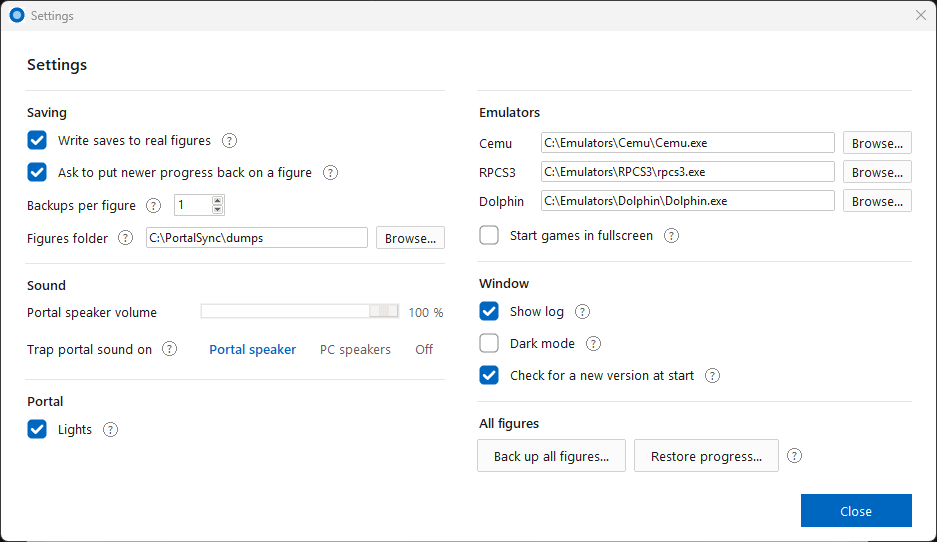
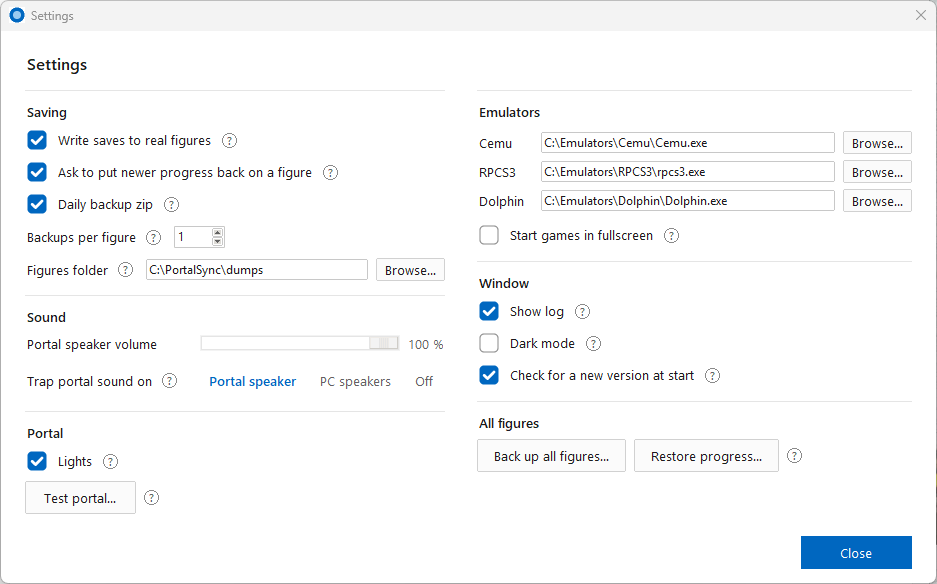
New screenshots for 1.5.0; drop the old name: portalsync.py, test_portalsync.py, portalsync.log

diff --git a/portalsync.py b/portalsync.py
@@ -1,8 +1,8 @@
-"""PortalSync (formerly Portal Bridge): software Skylanders Portal of Power exported over USB/IP to usbip-win2.
+"""PortalSync: software Skylanders Portal of Power exported over USB/IP to usbip-win2.
 Copyright (C) 2026 rhsts. SPDX-License-Identifier: GPL-2.0-or-later (see LICENSE).
 
-  python portal_bridge.py capture         # real portal plugged in: save its descriptors + back up figures
-  python portal_bridge.py [a.sky ...]     # serve the virtual portal on 127.0.0.1:3240, attach it, open the UI
+  python portalsync.py capture         # real portal plugged in: save its descriptors + back up figures
+  python portalsync.py [a.sky ...]     # serve the virtual portal on 127.0.0.1:3240, attach it, open the UI
 
 Dumps are named after the character and the figure's ID, e.g. dumps/Zook (86bc1263) - current.sky:
   current               the copy the game plays on; game saves land here
@@ -13,18 +13,18 @@ and one backup per figure, the newest; a new one sends the older one to the Recy
   before restore <time> what the figure held just before a restore wrote to it
 Real portal (plugged in): placing a figure backs it up (if it has no backup) and copies it into a
 free virtual slot; lifting it empties that slot. Unplugging the real portal keeps the copies loaded.
-  Cemu:    start the bridge before booting the game; the real portal can stay plugged in. Cemu
-           counts every portal when a game boots ("too many Portals" with real + virtual), so the
-           bridge loads portal_hide.dll into each Cemu it sees, which hides the real portal from
+  Cemu:    start PortalSync before booting the game; the real portal can stay plugged in. Cemu
+           counts every portal when a game boots ("too many Portals" with real + virtual), so
+           PortalSync loads portal_hide.dll into each Cemu it sees, which hides the real portal from
            Cemu while the virtual one is attached (see portal_hide.c). Without the DLL: plug the
            real portal in after the game has started. Figures then follow the real portal live.
-  Dolphin: the bridge loads portal_hide.dll into Dolphin too. Without it, never plug the real portal
+  Dolphin: PortalSync loads portal_hide.dll into Dolphin too. Without it, never plug the real portal
            in while Dolphin runs: Dolphin rescans, counts it ("too many USB Wireless Receivers") and
-           opens it alongside the bridge; pulling it out in that state crashed Windows (bugcheck
+           opens it alongside PortalSync; pulling it out in that state crashed Windows (bugcheck
            0x50). Then place figures first, unplug, and start Dolphin.
-  RPCS3:   start the bridge before booting the game: with no portal at boot RPCS3 adds its own
+  RPCS3:   start PortalSync before booting the game: with no portal at boot RPCS3 adds its own
            emulated one, and the virtual portal would then be a second portal. RPCS3 rescans USB
-           every 4 seconds and hands every 1430:0150 it finds to the game, so the bridge loads
+           every 4 seconds and hands every 1430:0150 it finds to the game, so PortalSync loads
            portal_hide.dll into it too. Without the DLL: same rule as Dolphin.
 Write-back (checkbox, on by default, choice kept in settings.json): game saves to a copied figure are also written to the real
 figure while it sits on the real portal, data blocks only, each verified by reading it back.
@@ -91,7 +91,7 @@ EPIPE, ECONNRESET = 32, 104  # Linux errno values, as USB/IP expects
 ADDED, READY, REMOVING, REMOVED = 3, 1, 2, 0  # Dolphin Skylander status enum
 
 
-LOG_FILE = None  # main() opens bridge.log
+LOG_FILE = None  # main() opens portalsync.log
 LOG_LINES = deque(maxlen=500)  # (number, line) for the window's log pane
 LOG_NUMBERS = itertools.count(1)
 LOG_LOCK = threading.Lock()  # numbers stay in order across threads
@@ -879,7 +879,7 @@ class Server:
 
     def dev_info(self, with_interfaces):
         d, cfg = self.desc.device, self.desc.config
-        info = (f'/portal-bridge/{BUSID}'.encode().ljust(256, b'\0') + BUSID.encode().ljust(32, b'\0')
+        info = (f'/portalsync/{BUSID}'.encode().ljust(256, b'\0') + BUSID.encode().ljust(32, b'\0')
                 + struct.pack('>III', 1, 1, self.desc.speed)
                 + struct.pack('>HHH', *struct.unpack_from('<HHH', d, 8))
                 + bytes([d[4], d[5], d[6], cfg[5], d[17], cfg[4]]))
@@ -1179,12 +1179,12 @@ class Mirror:
         if self.busy not in present:
             self.busy = None
         who = ', '.join(sorted(set(RUNNING_EMULATORS.values())))
-        if self.busy and who:  # the emulator booted its game before the bridge, so the game took the real portal
+        if self.busy and who:  # the emulator booted its game before PortalSync, so the game took the real portal
             state = f'real portal: in use by {who} - see the pop-up ({e})'
             if state != self.state:
-                self.notices.put(f"{who} has the real portal: its game was started before the bridge, so the game "
-                                 "can't see the bridge's portal.\n\n1. Stop the game.\n2. Unplug the real portal and "
-                                 "plug it back in.\n3. Start the game again.\n\nNext time, start the bridge first.")
+                self.notices.put(f"{who} has the real portal: its game was started before PortalSync, so the game "
+                                 "can't see PortalSync's portal.\n\n1. Stop the game.\n2. Unplug the real portal and "
+                                 "plug it back in.\n3. Start the game again.\n\nNext time, start PortalSync first.")
         elif self.busy:
             state = f'real portal: in use by another program - unplug it to free it ({e})'
         elif dev is not None and (dev.bus, dev.address) in present:
@@ -1276,7 +1276,7 @@ class Mirror:
             with open(path, 'rb') as f:
                 previous = f.read()
             if previous != data and self.write_back and self.left.get(uid) == data and not figure_info(previous).damaged:
-                # The figure is exactly as the bridge left it, so the difference is only game saves that did
+                # The figure is exactly as PortalSync left it, so the difference is only game saves that did
                 # not reach it (lifted mid-write, 2026-10-11): finish them like write-back would have.
                 catch_up = data = previous
             elif previous != data:  # progress the real figure does not have: keep it, never overwrite
@@ -1686,7 +1686,7 @@ def inject(pid, dll):
 
 
 def watch_emulators():
-    """Load portal_hide.dll into every emulator in HIDE_FROM running while the bridge runs, before it boots a game."""
+    """Load portal_hide.dll into every emulator in HIDE_FROM running while PortalSync runs, before it boots a game."""
     seen, tries = set(), {}
     while True:
         out = subprocess.run(['tasklist', '/fo', 'csv', '/nh'], capture_output=True, text=True,
@@ -1755,7 +1755,7 @@ def install_update(url, folder=None):
     files = {os.path.basename(n): n for n in z.namelist() if not n.endswith('/')}  # no folders: nothing lands elsewhere
     if 'PortalSync.exe' not in files:
         raise ValueError('the release zip has no PortalSync.exe')
-    for name in ('settings.json', 'bridge.log'):
+    for name in ('settings.json', 'portalsync.log'):
         files.pop(name, None)
     for name, member in files.items():
         with open(os.path.join(folder, name + '.new'), 'wb') as f:
@@ -1901,7 +1901,7 @@ def start_game(exe, emulator, path, fullscreen=False):
                 return
             try:
                 if inject(proc.pid, HIDE_DLL):
-                    return log(f'{os.path.basename(exe)} (pid {proc.pid}): real portal hidden from it (started by the bridge)')
+                    return log(f'{os.path.basename(exe)} (pid {proc.pid}): real portal hidden from it (started by PortalSync)')
             except OSError:
                 pass
             time.sleep(0.05)
@@ -1963,7 +1963,7 @@ class App:
                 DISABLED_BG='#3a3a3a', BOX_EDGE='#9a9a9a', BOX_EDGE_HOVER='#c8c8c8')
     locals().update(LIGHT)  # class defaults; __init__ switches to DARK when chosen
     STATE_COLOURS = (('claimed', '#0f7b0f'), ('not plugged in', '#8a8a8a'), ('', '#c45500'))  # first match wins
-    QUIET = re.compile(r'\S+ (portal [<-]|GET_DESCRIPTOR|SET_CONFIGURATION|UNLINK|portal sound: \d)')  # bridge.log only
+    QUIET = re.compile(r'\S+ (portal [<-]|GET_DESCRIPTOR|SET_CONFIGURATION|UNLINK|portal sound: \d)')  # portalsync.log only
     BAD_LINE = re.compile(r'FAILED|failed|in use|lost|error|not copied|not written|could not|did NOT', re.I)
 
     def __init__(self, server, mirror=None, first_start=False):
@@ -3047,7 +3047,7 @@ class App:
         col = right
         section('Window')
         check('Show log', self.show_log, self.toggle_log, pad=0,
-              help='The activity list at the bottom of the main window. Everything stays in bridge.log either way.')
+              help='The activity list at the bottom of the main window. Everything stays in portalsync.log either way.')
         dark = tk.BooleanVar(value=self.settings().get('dark', False))
         check('Dark mode', dark, lambda: self.remember(dark=dark.get()), help='Used from the next start.')
         updates = tk.BooleanVar(value=self.settings().get('check_updates', True))
@@ -3303,8 +3303,8 @@ class App:
         grid.pack(anchor='w')
         cells = []
         for k in range(8):  # the game uses up to 8 real slots (Swappers and traps take one each)
-            c = tk.Label(grid, width=9, height=3, font=('Segoe UI', 8), background=self.BUTTON, foreground=self.MUTED,
-                         highlightthickness=1, highlightbackground=self.LINE, wraplength=70)
+            c = tk.Label(grid, width=13, height=3, font=('Segoe UI', 8), background=self.BUTTON, foreground=self.MUTED,
+                         highlightthickness=1, highlightbackground=self.LINE, wraplength=76)
             c.grid(row=k // 4, column=k % 4, padx=3, pady=3)
             cells.append(c)
 
@@ -3513,7 +3513,7 @@ class App:
         return emulators
 
     def open_games(self):
-        """Start a Skylanders game from here, so the bridge is always running first."""
+        """Start a Skylanders game from here, so PortalSync is always running first."""
         import tkinter as tk
         from tkinter import ttk
         emulators = self.emulators()
@@ -3603,7 +3603,7 @@ def main():
             if attempt == (29 if updated else 0):
                 raise SystemExit(f'Port {TCP_PORT} is in use. Is PortalSync already running?')
             time.sleep(0.5)
-    LOG_FILE = open(os.path.join(HERE, 'bridge.log'), 'w')
+    LOG_FILE = open(os.path.join(HERE, 'portalsync.log'), 'w')
     global DUMPS, BACKUPS_KEPT
     prefs = App.settings()
     DUMPS = prefs.get('dumps') or DUMPS
@@ -3681,7 +3681,7 @@ if __name__ == '__main__':
         import traceback
         log(traceback.format_exc())
         if not sys.stdout:
-            ctypes.windll.user32.MessageBoxW(None, f'PortalSync stopped:\n{e}\n\nDetails are in bridge.log.',
+            ctypes.windll.user32.MessageBoxW(None, f'PortalSync stopped:\n{e}\n\nDetails are in portalsync.log.',
                                              'PortalSync', 0x10)
         raise
     except SystemExit as e:

diff --git a/portal_hide.c b/portal_hide.c
@@ -1,4 +1,4 @@
-/* portal_hide.dll: portal-bridge loads this into Cemu, RPCS3 and Dolphin so their libusb never lists
+/* portal_hide.dll: PortalSync loads this into Cemu, RPCS3 and Dolphin so their libusb never lists
 the real portal.
 Copyright (C) 2026 rhsts. SPDX-License-Identifier: GPL-2.0-or-later (see LICENSE).
 
@@ -7,7 +7,7 @@ Portals". RPCS3 and Dolphin rescan while a game runs and pass each one to the ga
 "could not read the device instance ID ... skipping"), so this replaces SetupDiGetDeviceInstanceIdA
 in the Cemu process with a version that fails for a real portal (one behind a PCI host controller)
 while a virtual portal (usbip-win2's vhci is not PCI) is present. Without a virtual portal nothing
-is hidden, so stopping the bridge gives Cemu the real portal back at the next game boot.
+is hidden, so stopping PortalSync gives Cemu the real portal back at the next game boot.
 
 Build (x64 Native Tools Command Prompt for VS 2022, in this folder):
   cl /nologo /O2 /LD portal_hide.c cfgmgr32.lib
@@ -74,7 +74,7 @@ BOOL WINAPI DllMain(HINSTANCE dll, DWORD reason, LPVOID reserved)
     if (reason == DLL_PROCESS_ATTACH) {
         /* mov rax, get_instance_id; jmp rax. Never undone: the DLL stays loaded until the emulator exits.
            ponytail: the 12-byte write is not atomic; a thread inside the function's first bytes right
-           now could crash. The bridge injects before a game boots, when nothing enumerates USB; if it
+           now could crash. PortalSync injects before a game boots, when nothing enumerates USB; if it
            ever matters, suspend the other threads around the write. */
         unsigned char jump[12] = {0x48, 0xB8, 0, 0, 0, 0, 0, 0, 0, 0, 0xFF, 0xE0};
         HMODULE setupapi = GetModuleHandleA("setupapi.dll");  /* Cemu imports it; no LoadLibrary under the loader lock */

diff --git a/test_portalsync.py b/test_portalsync.py
@@ -1,4 +1,4 @@
-"""Loopback check: a fake USB/IP client talks to Server/Portal. Run: python test_portal_bridge.py"""
+"""Loopback check: a fake USB/IP client talks to Server/Portal. Run: python test_portalsync.py"""
 import socket
 import struct
 import threading
@@ -12,8 +12,8 @@ import subprocess
 import sys
 import tempfile
 
-import portal_bridge as pb
-from portal_bridge import Portal, Server, recv_exact
+import portalsync as pb
+from portalsync import Portal, Server, recv_exact
 
 DEVICE = bytes.fromhex('120100020000004030145001000101020001')
 CONFIG = bytes.fromhex('0902290001010080fa' '090400000203000000' '092111010001221d00' '0705810340000107050203400001')
@@ -357,7 +357,7 @@ def creating():
 
 
 def game_first():
-    """Busy real portal while an emulator runs: its game booted before the bridge. Say what to do."""
+    """Busy real portal while an emulator runs: its game booted before PortalSync. Say what to do."""
     m = pb.Mirror(Server(Portal(DESC.r_reply), DESC), vhci_bus=3)
     portal = SimpleNamespace(bus=1, address=21)
     real_devices, pb.portal_devices = pb.portal_devices, lambda: [portal]
@@ -433,7 +433,7 @@ sys.exit(0 if k.GetModuleHandleW('portal_hide.dll') else 1)
 
 
 def injection():
-    """inject() gets portal_hide.dll into another process, the way the bridge does it to Cemu."""
+    """inject() gets portal_hide.dll into another process, the way PortalSync does it to Cemu."""
     if not os.path.exists(pb.HIDE_DLL):
         return print('portal_hide.dll not built: injection not checked')
     child = subprocess.Popen([sys.executable, '-I', '-c', CHILD], stdout=subprocess.PIPE, text=True)

diff --git a/test_save_safety.py b/test_save_safety.py
@@ -5,8 +5,8 @@ import tempfile
 import unittest
 from unittest.mock import patch
 
-import portal_bridge as pb
-from test_portal_bridge import DESC, FakeReal, saved_figure
+import portalsync as pb
+from test_portalsync import DESC, FakeReal, saved_figure
 
 
 class SaveSafetyTests(unittest.TestCase):

diff --git a/README.md b/README.md
@@ -1,7 +1,5 @@
 # PortalSync
 
-*Formerly Portal Bridge.*
-
 Use one real Skylanders Portal of Power with **Cemu** (Wii U), **RPCS3** (PS3) and **Dolphin** (Wii) on Windows, and keep your game progress on your real figures. Play your real figures and `.sky` figures from your PC at the same time.
 
 PortalSync creates a *virtual* portal over USB/IP. Every figure you place on the real portal is copied into the virtual portal, and the emulator talks only to the virtual one. Game saves go back onto the real figure. The real portal can stay plugged in the whole time: a small DLL hides it from the emulators, so games never say "too many Portals".
@@ -79,14 +77,18 @@ To undo it later: in **Device Manager**, open **libusbK USB Devices**, right-cli
 
 | | |
 | --- | --- |
-| ![Add a Skylander: your figures with level, gold and villain](docs/add.png) | ![All Skylanders: game, element and the ones you have](docs/collection.png) |
-| **Add Skylander**: your figures, with level, gold and the villain in a trap. | **All Skylanders**: all 548 figures, with game, element and a tick for yours. |
-| ![The restore pop-up](docs/restore.png) | ![Right-click a figure](docs/menu.png) |
-| **Restore**: put newer progress back on a figure, one figure at a time. | **Right-click a figure** to unload, edit, repair, reset or restore it. |
-| ![Settings](docs/settings.png) | ![Start a game](docs/games.png) |
-| **Settings**: hover over or click a **?** for an explanation. | **Start game**: your Skylanders games from Cemu, RPCS3 and Dolphin. |
-| ![The welcome window](docs/welcome.png) | ![Dark mode](docs/dark.png) |
-| **Welcome window** on the first start. | **Dark mode.** |
+| ![Add a Skylander: your figures with level, gold and villain](docs/add.png) | ![All Skylanders, filtered on Trap Team](docs/collection.png) |
+| **Add Skylander**: your figures, with level, gold and the villain in a trap. | **All Skylanders**: 591 figures. Click a game, or use the drop-down, to filter. |
+| ![Teams](docs/teams.png) | ![Right-click a figure](docs/menu.png) |
+| **Teams**: save the figures on the portal and load them back in one click. | **Right-click a figure**: unload, replace, progress history, edit, repair, reset or restore. |
+| ![Progress history](docs/history.png) | ![The restore pop-up](docs/restore.png) |
+| **Progress history**: a figure's level and gold over time. | **Restore**: put newer progress back on a figure, one figure at a time. |
+| ![Settings](docs/settings.png) | ![Test portal](docs/portal_test.png) |
+| **Settings**: hover over or click a **?** for an explanation. | **Test portal**: which slots hold a figure, plus the lights and a test tone. |
+| ![Start a game](docs/games.png) | ![The welcome window](docs/welcome.png) |
+| **Start game**: your Skylanders games from Cemu, RPCS3 and Dolphin. | **Welcome window** on the first start. |
+| ![Dark mode](docs/dark.png) | |
+| **Dark mode**, with the SAVE column: which saves are on the real figure. | |
 
 ## Features
 
@@ -164,7 +166,7 @@ To run it from the source instead of the exe (steps 1, 2 and 4 of Getting starte
 
 ```
 pip install -r requirements.txt
-python portal_bridge.py
+python portalsync.py
 ```
 
 Python 3.13 was used. To build the exe and the DLL together, install PyInstaller as well, then run `powershell -ExecutionPolicy Bypass -File build.ps1`. This needs the Visual Studio C++ x64 build tools. To build only `portal_hide.dll`, use an *x64 Native Tools Command Prompt for VS 2022*:
@@ -175,7 +177,7 @@ cl /nologo /O2 /LD portal_hide.c cfgmgr32.lib
 
 ## How it works
 
-- **The virtual portal:** `portal_bridge.py` is a USB/IP server. usbip-win2 attaches its virtual portal, and Windows sees a second `1430:0150` HID device. The portal protocol (status reports, block reads and writes, lights, audio) is ported from Dolphin's emulated portal.
+- **The virtual portal:** `portalsync.py` is a USB/IP server. usbip-win2 attaches its virtual portal, and Windows sees a second `1430:0150` HID device. The portal protocol (status reports, block reads and writes, lights, audio) is ported from Dolphin's emulated portal.
 - **The real portal:** PortalSync claims it with libusb, reads each figure placed on it, and loads it into a free virtual slot. Game writes go to `dumps\<character> (<id>) - current.sky`, and to the real figure when write-back is on.
 - **Hiding the real portal:** `portal_hide.dll` is loaded into each running Cemu, RPCS3 and Dolphin process. It patches `SetupDiGetDeviceInstanceIdA` so that it fails for a portal behind a real (PCI) USB controller while the virtual portal exists, and libusb then skips the real portal. Nothing is written to the emulator folders, and the patch goes away when the emulator closes.
 - **Reading figure saves:** saves are decrypted the way Dolphin does it (AES from Windows itself, no extra package). Checksum types 1–3 cover the main save area, and type 6 covers the second area that holds the later games' experience.
@@ -184,7 +186,7 @@ cl /nologo /O2 /LD portal_hide.c cfgmgr32.lib
 ## Tests
 
 ```
-python test_portal_bridge.py
+python test_portalsync.py
 python -m unittest -v test_save_safety
 ```
 
@@ -194,16 +196,16 @@ The first prints `ok`, and the second runs 16 save-safety tests. The tests use f
 
 | File | What it is |
 | --- | --- |
-| `portal_bridge.py` | The program: USB/IP server, portal logic, window. |
+| `portalsync.py` | The program: USB/IP server, portal logic, window. |
 | `portal_hide.c` | Source of `portal_hide.dll`. |
-| `portal_descriptors.json` | USB descriptors of a real portal, which the virtual portal copies. Recreate them from your own portal with `python portal_bridge.py capture`. |
+| `portal_descriptors.json` | USB descriptors of a real portal, which the virtual portal copies. Recreate them from your own portal with `python portalsync.py capture`. |
 | `figure_names.json` | Figure IDs and names: Dolphin's Skylander list, the Imaginators Senseis from Cemu's and RPCS3's lists, and the Imaginators variants and Creation Crystals from [Skylander-IDs](https://github.com/Texthead1/Skylander-IDs). |
 | `figure_details.json` | Game and element of each figure in the All Skylanders list. |
-| `test_portal_bridge.py`, `test_save_safety.py` | Tests. |
+| `test_portalsync.py`, `test_save_safety.py` | Tests. |
 | `build.ps1` | Builds `PortalSync.exe` and `portal_hide.dll`. |
 | `portal.ico` | Icon. |
 
-Your figures, the log and your settings stay on your PC (`dumps\`, `bridge.log`, `settings.json`). They're never part of the repository.
+Your figures, the log and your settings stay on your PC (`dumps\`, `portalsync.log`, `settings.json`). They're never part of the repository.
 
 ## Credits
 
